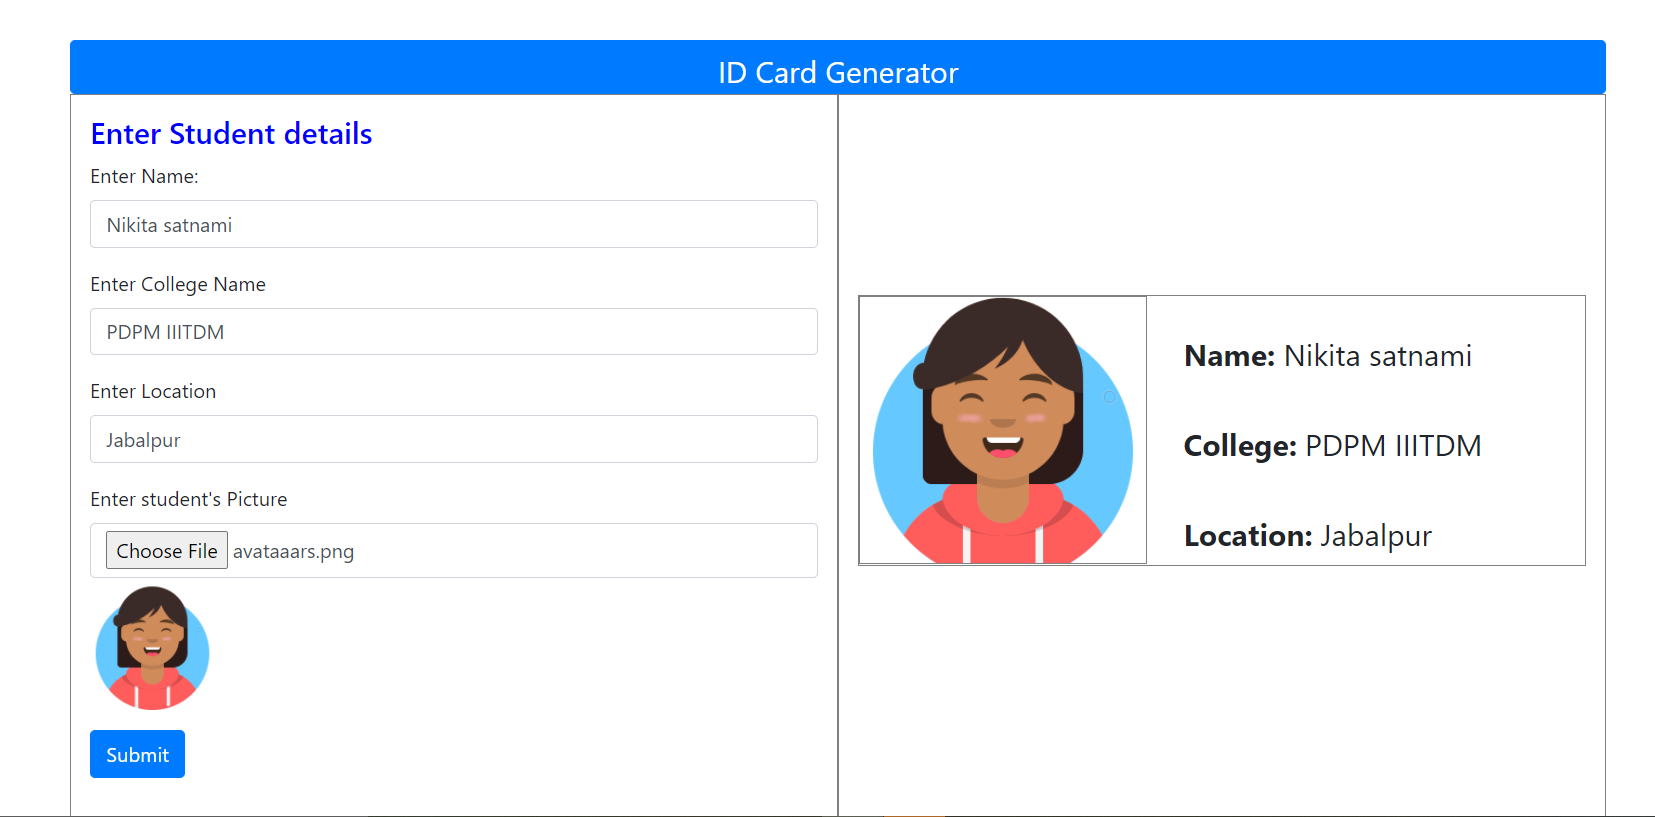
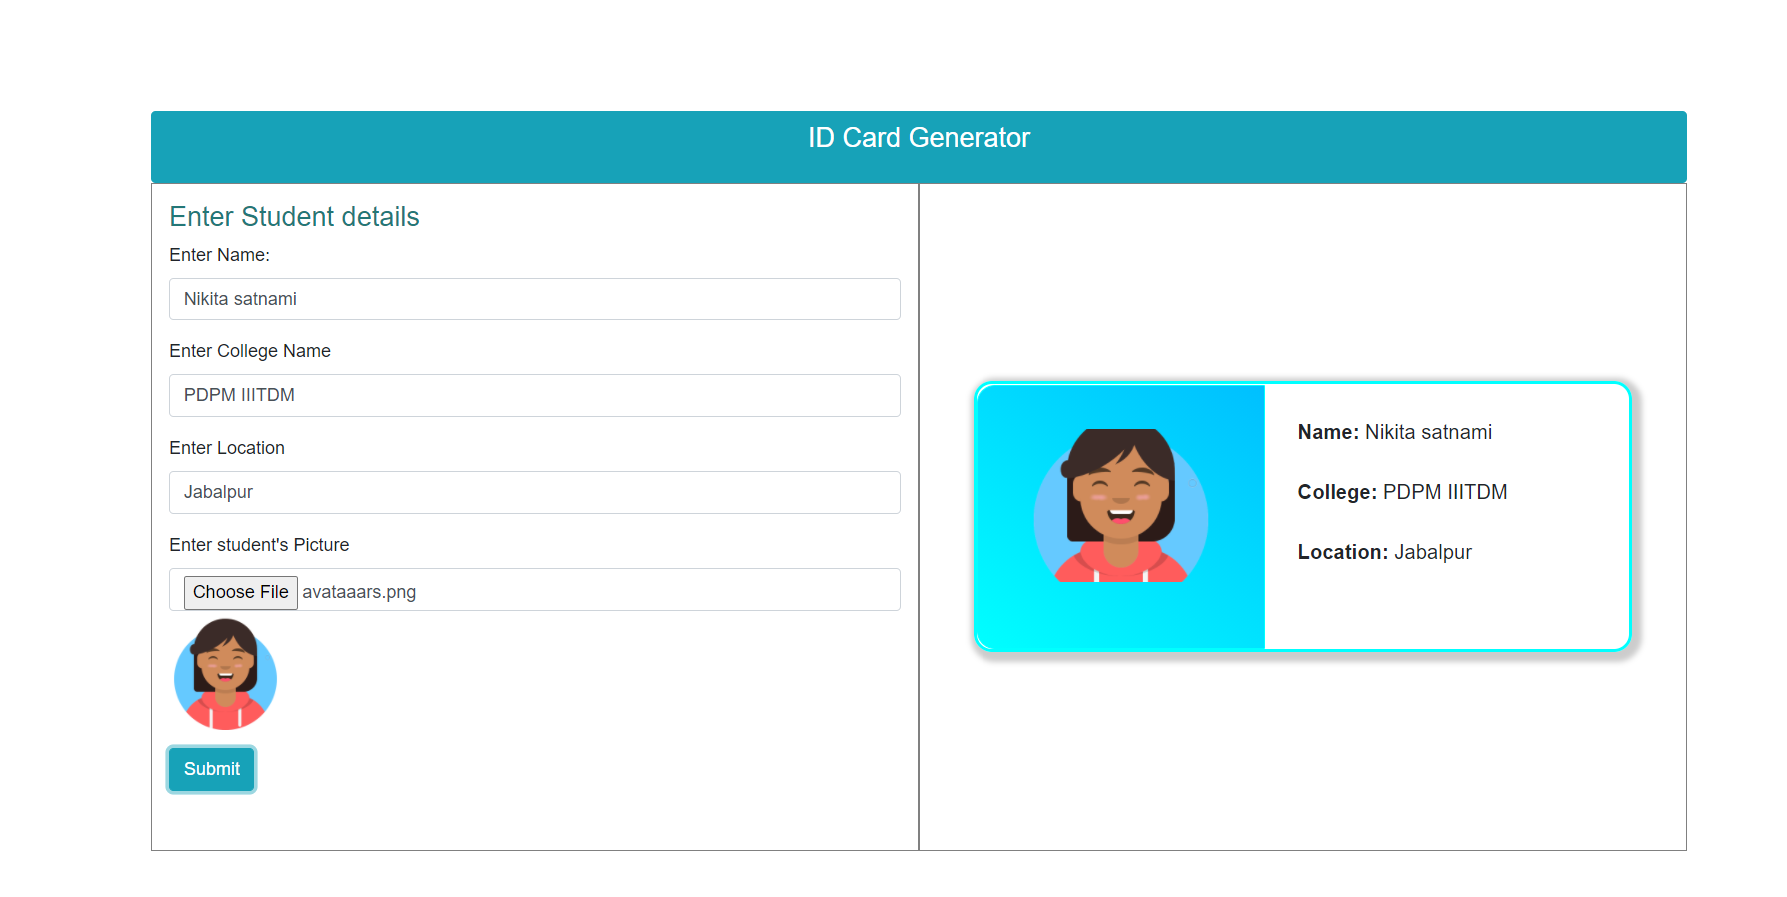
Some changes in UI

Changed region(s): [[0.0308, 0.0306, 0.9861, 0.9792], [0.4931, 0.3366, 0.9245, 0.765], [0.4931, 0.918, 0.5239, 0.9486]]

diff --git a/index.html b/index.html
@@ -11,6 +11,10 @@
       integrity="sha384-Gn5384xqQ1aoWXA+058RXPxPg6fy4IWvTNh0E263XmFcJlSAwiGgFAW/dAiS6JXm"
       crossorigin="anonymous"
     />
+    <link rel="stylesheet" 
+    href="https://stackpath.bootstrapcdn.com/bootstrap/4.2.1/css/bootstrap.min.css"
+    integrity="sha384-GJzZqFGwb1QTTN6wy59ffF1BuGJpLSa9DkKMp0DgiMDm4iYMj70gZWKYbI706tWS"
+ crossorigin="anonymous"> 
     <link
       rel="stylesheet"
       href="https://stackpath.bootstrapcdn.com/font-awesome/4.7.0/css/font-awesome.min.css"
@@ -27,40 +31,41 @@
   </head>
   <body>
     <div class="containerClass">
-      <h1 class="btn btn-large btn-primary heading">ID Card Generator</h1>
+      <h1 class="btn btn-x-large bg-info heading">ID Card Generator</h1>
       <div class="frame">
-        <div class='left'>
+        <div class='left '>
           <form runat="server">
             <div class="form-group">
               <h4>Enter Student details</h4>
               <label for="name">Enter Name: </label>
-              <input type="text" class="form-control" id="name"  placeholder="Ramesh yadav">
-              
+              <input type="text" class="form-control" id="name" placeholder="Ramesh yadav">
+    
             </div>
             <div class="form-group">
               <label for="college">Enter College Name</label>
               <input type="text" class="form-control" id="college" placeholder="I.I.T">
             </div>
-            
+    
             <div class="form-group">
               <label for="location">Enter Location</label>
               <input type="text" class="form-control" id="location" placeholder="Mumbai">
             </div>
             <div class="form-group">
               <label for="image">Enter student's Picture</label>
-              <input type="file" class="form-control"  id="imageInput" accept="image/x-png,image/gif,image/jpeg">
-              <img id ="blah" src="#" alt="" width='100px'/>
+              <input type="file" class="form-control" id="imageInput" accept="image/x-png,image/gif,image/jpeg">
+              <img id="blah" src="#" alt="" width='100px' />
             </div>
-            <button type="submit" class="btn btn-primary">Submit</button>
-
+            <button type="submit" class="btn btn-info">Submit</button>
+    
           </form>
         </div>
         <div class='right'>
-          <div id="idCard" class='idClass'>
-            <div class="idImage"></div>
+          <div id="idCard" class='idClass '>
+            <div class="idImage ">
+              <div class="image"></div>
+            </div>
             <div class="idContent">
-              
-
+    
             </div>
           </div>
         </div>

diff --git a/css/style.css b/css/style.css
@@ -1,5 +1,10 @@
+
+body{
+  font-family: 'Montserrat', sans-serif;
+}
 .containerClass{
   margin-top: 100px;;
+  
   
 }
 .imageContainer{
@@ -16,30 +21,62 @@ img{
   
 
 }
+/* css before submit for ID Card */
 .idImage{
   width:15vw;
-  padding:5%;
-  border:1px solid grey;
-  background-position: center;
-  background-repeat: no-repeat;
-  background-size: cover;
+ 
   
 }
 .idContent{
   padding-top:5%;
   padding-left: 5%;
   
-  font-size:x-large;
+  font-size:large;
 }
 
 .idClass{
   display:flex;
   margin-top:20vh;
-  border:1px solid grey;
+  
   height:30vh;
 
 
 }
+/* css after */
+.idClassAfter{
+  border: 3px solid #00FFFF;
+  margin:20vh auto;
+  width:90%;
+  -webkit-border-radius: 1em;
+  -webkit-box-shadow: 3px 3px 5px 6px #ccc;
+  
+
+}
+.idContentAfter{
+     
+}
+.idImageAfter{
+  border: 1px solid aqua;
+  -webkit-border-top-left-radius: 1em;
+  -webkit-border-bottom-left-radius: 1em;
+  background:linear-gradient(35deg, #00FFFF, 	#00BFFF);
+  
+
+
+  
+}
+.image{
+  width:10vw;
+  margin:15% auto;
+  height:17vh;
+  -webkit-border-radius: 2em;
+  background-position: center;
+  background-repeat: no-repeat;
+  background-size: cover;
+  
+
+}
+
 .right{
   border:1px solid grey;
   width:40%;
@@ -54,11 +91,15 @@ img{
 .heading{
   font-size: x-large;
   width:80%;
-  height:6vh;
+  height:8vh;
+  box-styling:border-box;
   margin-left:10%;
   margin-bottom: 0;
+  padding-bottom:10px;
+  color:white;
+  text-align: center;
 
 }
 h4{
-  color:blue;
+  color:#247777;
 }

diff --git a/js/index.js b/js/index.js
@@ -25,11 +25,14 @@ $('button').on('click', function () {
     // alert(name);
     // $("#idCard").addClass('idClass');
     let src= $("#blah").attr('src');
-    $(".idImage").css('background-image', "url(" + src + ")");
+   
+    $(".image").css('background-image', "url(" + src + ")");
     
 
     $(".idContent").html("<b>Name:</b>  "+ name+"<br><br><b>College:</b> "+ college+"<br><br><b>Location:  </b>"+ location );
-    
+    $(".idContent").addClass("idContentAfter");
+    $(".idImage").addClass("idImageAfter");
+    $(".idClass").addClass("idClassAfter");
 
     return false;
 
